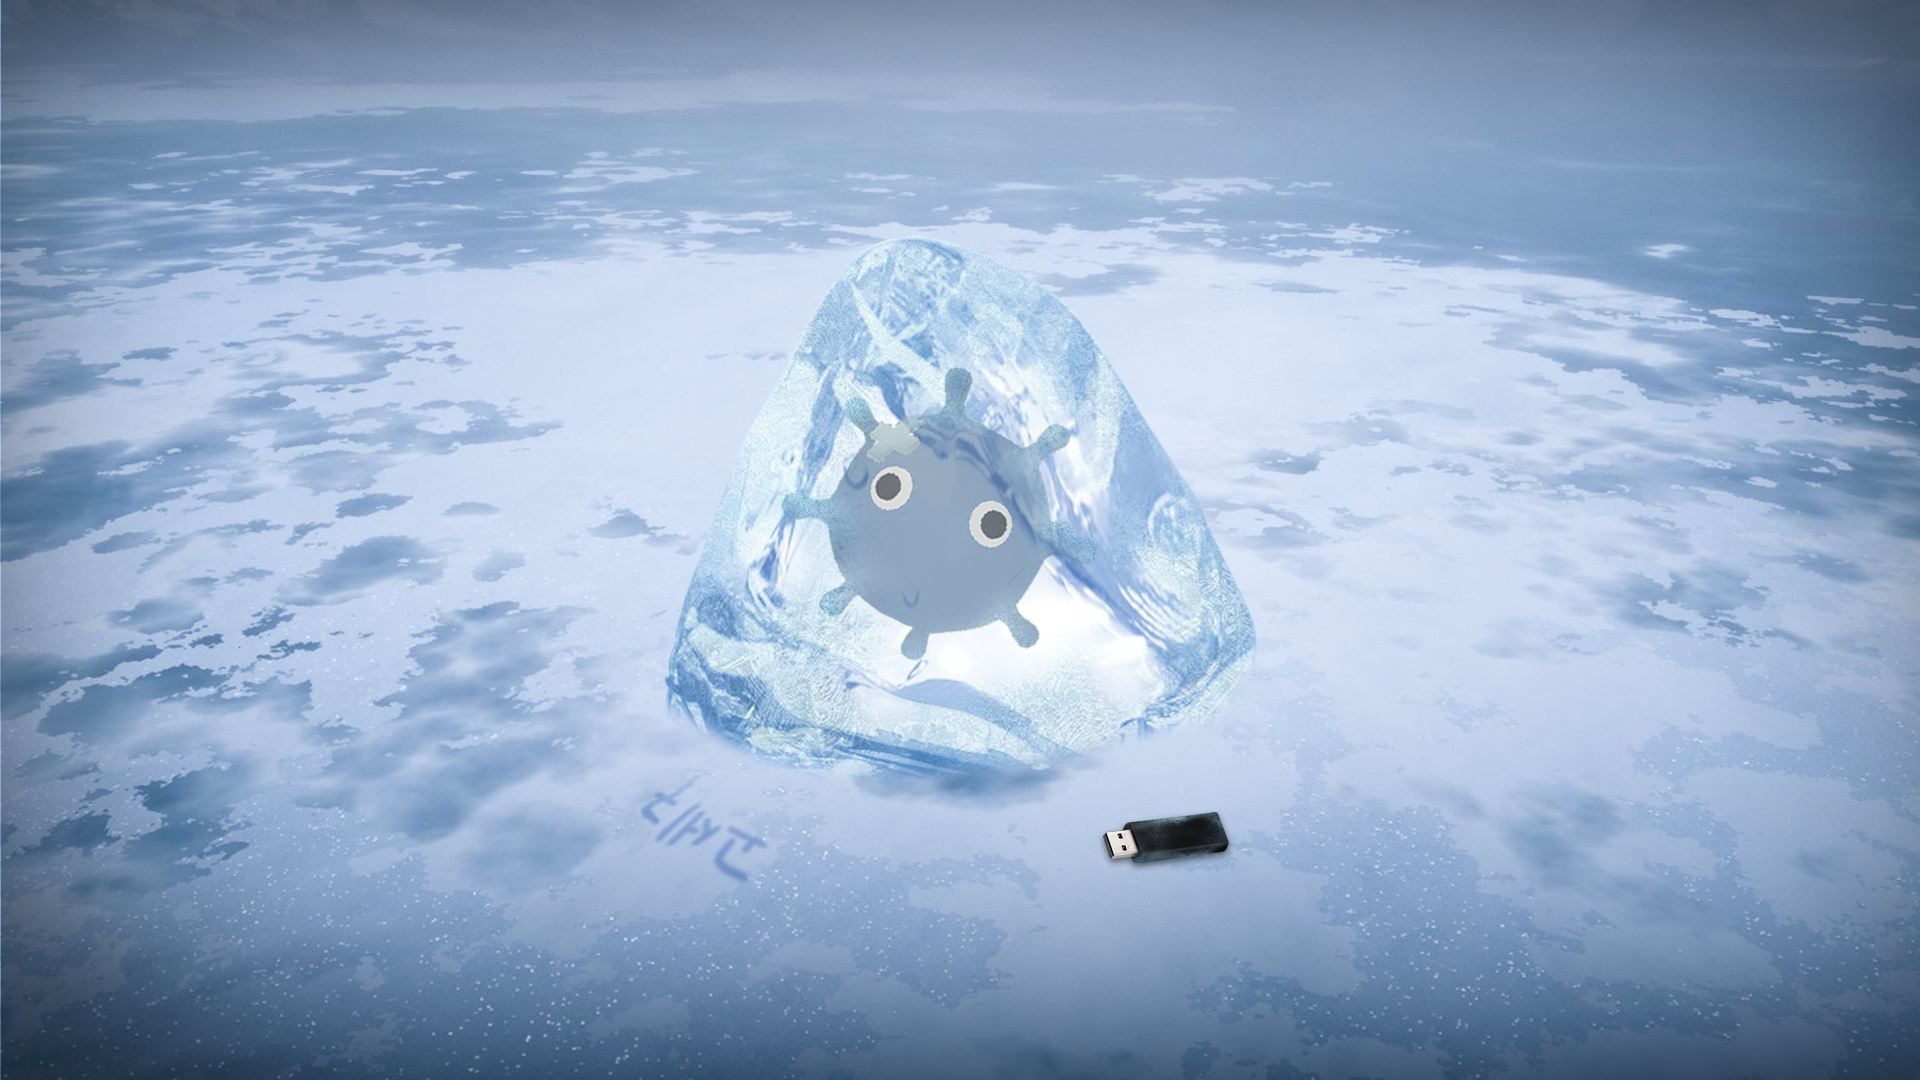
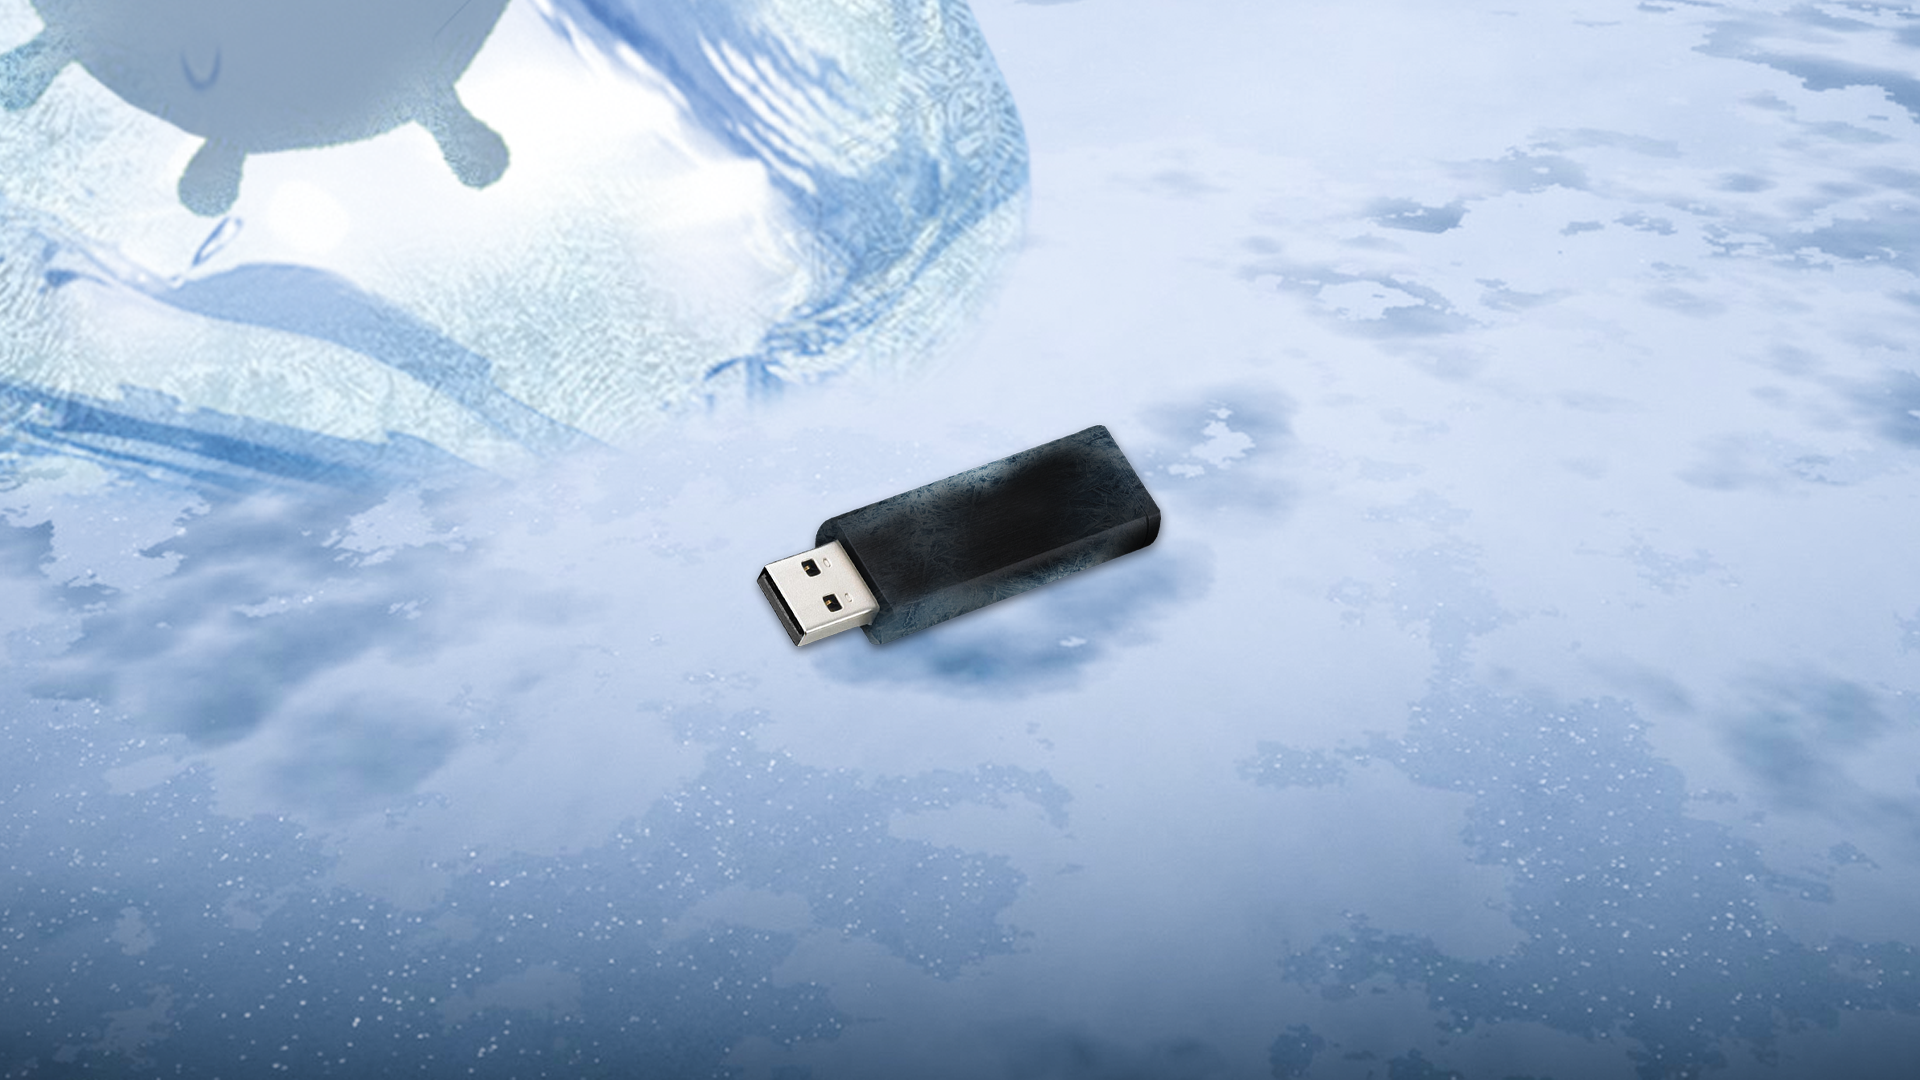
snow animation add

diff --git a/css/style.css b/css/style.css
@@ -1,5 +1,5 @@
 @import url("https://fonts.googleapis.com/css2?family=Nunito:wght@200;300;400;600;700&display=swap");
-@import url("https://fonts.googleapis.com/css2?family=Black+And+White+Picture&family=Black+Han+Sans&family=East+Sea+Dokdo&display=swap");
+@import url("https://fonts.googleapis.com/css2?family=Black+And+White+Picture&family=Black+Han+Sans&family=East+Sea+Dokdo&family=Noto+Serif+KR&display=swap");
 * {
   font-family: 'Nunito', sans-serif;
   margin: 0%;
@@ -45,28 +45,25 @@ html {
 .rain > i {
   z-index: -5;
   position: absolute;
-  height: 200px;
-  background: -webkit-gradient(linear, left top, left bottom, from(transparent), to(#348fe4));
-  background: linear-gradient(transparent, #348fe4);
-  border-bottom-left-radius: 5px;
-  border-bottom-right-radius: 5px;
+  font-size: 5rem;
+  width: 7.5px;
+  height: 7.5px;
+  background: #b3b3b3;
+  border-radius: 5px;
   -webkit-animation: animate 5s linear infinite;
           animation: animate 5s linear infinite;
 }
 
 .rain > i:nth-child(3n+1) {
-  background: -webkit-gradient(linear, left top, left bottom, from(transparent), to(#86c4ff));
-  background: linear-gradient(transparent, #86c4ff);
+  background: #cec5c5;
 }
 
 .rain > i:nth-child(3n+2) {
-  background: -webkit-gradient(linear, left top, left bottom, from(transparent), to(#5090cc));
-  background: linear-gradient(transparent, #5090cc);
+  background: white;
 }
 
 .rain > i:nth-child(3n+3) {
-  background: -webkit-gradient(linear, left top, left bottom, from(transparent), to(#b9ddff));
-  background: linear-gradient(transparent, #b9ddff);
+  background: #d4d7db;
 }
 
 body {
@@ -351,7 +348,7 @@ body {
 
 .content_wrap .Subtitle {
   width: 100%;
-  height: 105%;
+  height: 100%;
   position: absolute;
   display: -webkit-box;
   display: -ms-flexbox;
@@ -395,17 +392,15 @@ body {
   margin-bottom: 25rem;
   -webkit-transition: 1.5s ease-in-out;
   transition: 1.5s ease-in-out;
-}
-
-.content_wrap .Subtitle .first img {
-  height: 300px;
-  width: 300px;
-  margin-bottom: 32rem;
+  z-index: 10;
 }
 
 .content_wrap .Subtitle .first h3 {
+  font-family: 'Noto Serif KR', serif;
   font-size: 3.5rem;
   position: absolute;
+  color: white;
+  text-shadow: -3px 0 #000, 0 3px #000, 3px 0 #000, 0 -3px #000;
   z-index: 200;
   margin-bottom: 8rem;
 }
@@ -427,16 +422,14 @@ body {
   margin-bottom: 25rem;
   -webkit-transition: 1.5s ease-in-out;
   transition: 1.5s ease-in-out;
-}
-
-.content_wrap .Subtitle .second img {
-  height: 300px;
-  width: 300px;
-  margin-bottom: 32rem;
+  z-index: 20;
 }
 
 .content_wrap .Subtitle .second h3 {
+  font-family: 'Noto Serif KR', serif;
   font-size: 3.5rem;
+  color: white;
+  text-shadow: -3px 0 #000, 0 3px #000, 3px 0 #000, 0 -3px #000;
   position: absolute;
   z-index: 200;
   margin-bottom: 8rem;
@@ -478,23 +471,23 @@ body {
 
 @-webkit-keyframes animate {
   0% {
-    -webkit-transform: translateY(-200px);
-            transform: translateY(-200px);
+    -webkit-transform: translateY(-200px) translateX(0px);
+            transform: translateY(-200px) translateX(0px);
   }
   100% {
-    -webkit-transform: translateY(calc(100vh + 200px));
-            transform: translateY(calc(100vh + 200px));
+    -webkit-transform: translateY(calc(100vh + 200px)) translateX(200px);
+            transform: translateY(calc(100vh + 200px)) translateX(200px);
   }
 }
 
 @keyframes animate {
   0% {
-    -webkit-transform: translateY(-200px);
-            transform: translateY(-200px);
+    -webkit-transform: translateY(-200px) translateX(0px);
+            transform: translateY(-200px) translateX(0px);
   }
   100% {
-    -webkit-transform: translateY(calc(100vh + 200px));
-            transform: translateY(calc(100vh + 200px));
+    -webkit-transform: translateY(calc(100vh + 200px)) translateX(200px);
+            transform: translateY(calc(100vh + 200px)) translateX(200px);
   }
 }
 

diff --git a/css/style.scss b/css/style.scss
@@ -1,5 +1,6 @@
 @import url('https://fonts.googleapis.com/css2?family=Nunito:wght@200;300;400;600;700&display=swap');
-@import url('https://fonts.googleapis.com/css2?family=Black+And+White+Picture&family=Black+Han+Sans&family=East+Sea+Dokdo&display=swap');
+@import url('https://fonts.googleapis.com/css2?family=Black+And+White+Picture&family=Black+Han+Sans&family=East+Sea+Dokdo&family=Noto+Serif+KR&display=swap');
+
 $mobile: "only screen and (max-width: 640px)";
 
 * {
@@ -43,23 +44,24 @@ html {
 .rain > i {
     z-index: -5;
     position: absolute;
-    height: 200px;
-    background : linear-gradient(transparent, rgb(52, 143, 228));
-    border-bottom-left-radius: 5px;
-    border-bottom-right-radius: 5px;
+    font-size: 5rem;
+    width: 7.5px;
+    height: 7.5px;
+    background : rgb(179, 179, 179);
+    border-radius: 5px;
     animation: animate 5s linear infinite;
 }
 
 .rain > i:nth-child(3n+1){
-    background : linear-gradient(transparent, rgb(134, 196, 255));
+    background : rgb(206, 197, 197);
 }
 
 .rain > i:nth-child(3n+2){
-    background : linear-gradient(transparent, rgb(80, 144, 204));
+    background : rgb(255, 255, 255);
 }
 
 .rain > i:nth-child(3n+3){
-    background : linear-gradient(transparent, rgb(185, 221, 255));
+    background : rgb(212, 215, 219);
 }
 
 body {
@@ -273,7 +275,7 @@ body {
 
     .Subtitle {
         width: 100%;
-        height: 105%;
+        height: 100%;
         position: absolute;
         display: flex;
         pointer-events: none;
@@ -305,16 +307,14 @@ body {
             justify-content: center;
             margin-bottom: 25rem;
             transition: 1.5s ease-in-out;
-
-            img {
-                height: 300px;
-                width: 300px;
-                margin-bottom: 32rem;
-            }
+            z-index: 10;
 
             h3 {
+                font-family: 'Noto Serif KR', serif;
                 font-size: 3.5rem;
                 position: absolute;
+                color: white;
+                text-shadow: -3px 0 #000, 0 3px #000, 3px 0 #000, 0 -3px #000;
                 z-index: 200;
                 margin-bottom: 8rem;
             }
@@ -330,15 +330,13 @@ body {
             justify-content: center;
             margin-bottom: 25rem;
             transition: 1.5s ease-in-out;
+            z-index: 20;
             
-            img {
-                height: 300px;
-                width: 300px;
-                margin-bottom: 32rem;
-            }
-
             h3 {
+                font-family: 'Noto Serif KR', serif;
                 font-size: 3.5rem;
+                color: white;
+                text-shadow: -3px 0 #000, 0 3px #000, 3px 0 #000, 0 -3px #000;
                 position: absolute;
                 z-index: 200;
                 margin-bottom: 8rem;
@@ -378,11 +376,11 @@ body {
 {
     0%
     {
-        transform: translateY(-200px);
+        transform: translateY(-200px) translateX(0px);;
     }
     100%
     {
-        transform: translateY(calc(100vh + 200px));
+        transform: translateY(calc(100vh + 200px)) translateX(200px);
     }
 }
 

diff --git a/index.html b/index.html
@@ -21,6 +21,9 @@
     </div>
 
     <div class ="content_wrap">
+
+        <div class="main_background">
+        </div>
         
         <div class="vignectting">
             <img src="image/background.png">
@@ -75,11 +78,9 @@
             </div>
         </div>
         <div class="Subtitle">
-            <h4>(아무곳이나 클릭시 다음페이지)</h4>
             <div class="first">
-                <img src="/image/frozenvirus.png">
+                <img src="image/background_virus.png">
                 <h3>발견한 일기의 내용은 이것이 끝이다.</h3>
-
             </div>
             <div class="second">
                 <img src="image/background_germ.png">
@@ -101,6 +102,5 @@
 
     <script type="module" src="js/app.js"></script>
     <script type="module" src="js/rain.js"></script>
-    <script src="js/backgroud.js"></script>
     
 </html>

diff --git a/js/rain.js b/js/rain.js
@@ -1,4 +1,4 @@
-let amount = 150;
+let amount = 225;
 export const rain = document.querySelector('.rain')
 let i =  0;
 let windowWidth;
@@ -6,12 +6,10 @@ let windowWidth;
 while(i < amount){
     let drop = document.createElement('i');
 
-    let size = Math.random() * 5;
     let posX = Math.floor(Math.random() * 3000);
     let delay = Math.random() * -20;
-    let duration = Math.random() * 100;
+    let duration = Math.random() * 50;
 
-    drop.style.width = 0.2 + size + 'px';
     drop.style.left = posX + 'px';
     drop.style.animationDelay = delay + 's';
     drop.style.animationDuration = 1 + duration + 's';
@@ -19,5 +17,4 @@ while(i < amount){
     rain.appendChild(drop);
     i++;
 }
-
 

diff --git a/js/app.js b/js/app.js
@@ -44,6 +44,9 @@ mainEven.onclick = () => {
     , 1000);
    
     mainEven.style.cursor = "auto";
+
+    rain.style.trasition = '2s';
+    rain.style.opacity = "1"
 }
 
 const outro = () => {
@@ -99,11 +102,6 @@ let Zcount = 0;
                 nextPage[count].style.transform = "rotateX(0deg) rotateY(-180deg)";
                 console.log(count);
                 setTimeout(() => button = true, 1000);
-
-                if(1 <= count){
-                    rain.style.trasition = '2s';
-                    rain.style.opacity = "1"
-                }
                 
                 if (count == 7){
                     backCover.style.zIndex = 20;

diff --git a/js/backgroud.js b/js/backgroud.js
@@ -1,4 +1,4 @@
-let amount = 15;
+let amount = 250;
 const Cross = document.querySelector('.main_background')
 let i =  0;
 let windowWidth;
@@ -6,12 +6,10 @@ let windowWidth;
 while(i < amount){
     let drop = document.createElement('i');
 
-    let size = Math.random() * 5;
-    let posX = Math.floor(Math.random() * 3000);
+    let posX = Math.floor(Math.random() * 4000);
     let delay = Math.random() * -20;
     let duration = Math.random() * 5;
 
-    drop.style.width = 0.2 + size + 'px';
     drop.style.left = posX + 'px';
     drop.style.animationDelay = delay + 's';
     drop.style.animationDuration = 1 + duration + 's';
